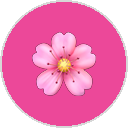
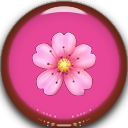
fix: surrendered spelare kan inte längre vinna + persistens vid surrender
- calculateWinner() exkluderar nu alltid spelare med surrendered=true
- surrender-handlern anropar handleGameEnd() vid game over så att
  ELO, achievements och spelhistorik sparas korrekt
- Uppdaterade AGENTS.md och avatarer

diff --git a/server/sockets/handlers.js b/server/sockets/handlers.js
@@ -475,24 +475,7 @@ function createSocketHandlers(io, roomManager, Game, User, db, escapeHtml, handl
                 });
 
                 if (result.gameOver) {
-                    room.game.players.forEach(player => {
-                        io.to(player.socketId).emit('game_over', {
-                            gameState: room.game.getPublicState(player.socketId),
-                            winner: room.game.winner,
-                            standings: room.game.finalStandings,
-                            duration: room.game.duration,
-                            totalTurns: room.game.totalTurns
-                        });
-                    });
-                    room.game.spectators.forEach(spectatorId => {
-                        io.to(spectatorId).emit('game_over', {
-                            gameState: room.game.getSpectatorState(),
-                            winner: room.game.winner,
-                            standings: room.game.finalStandings,
-                            duration: room.game.duration,
-                            totalTurns: room.game.totalTurns
-                        });
-                    });
+                    handleGameEnd(room.game, room);
                 } else {
                     room.game.players.forEach(player => {
                         io.to(player.socketId).emit('game_state_update', room.game.getPublicState(player.socketId));

diff --git a/server/game/utils.js b/server/game/utils.js
@@ -78,7 +78,7 @@ function getPlayerAvatar(name, currentAvatar = null) {
     // Simple hash of the name
     let hash = 0;
     for (let i = 0; i < name.length; i++) {
-        hash = ((hash << 5) - hash) + name.charCodeAt(i);
+        hash = (hash << 5) - hash + name.charCodeAt(i);
         hash |= 0; // Convert to 32-bit int
     }
     const index = Math.abs(hash) % AVATARS.length;

diff --git a/server/game/GameEngine.js b/server/game/GameEngine.js
@@ -1232,7 +1232,7 @@ class GameEngine {
 
     calculateWinner() {
         const activePlayers = this.players
-            .filter(p => p.connected || p.pairs.length > 0)
+            .filter(p => !p.surrendered && (p.connected || p.pairs.length > 0))
             .sort((a, b) => b.pairs.length - a.pairs.length);
 
         // Assign ranks with tie handling (same pairs = same rank)

diff --git a/AGENTS.md b/AGENTS.md
@@ -56,7 +56,7 @@ finns-i-sjon-pro/
 │   │   ├── users.js           # GET /leaderboard, /online, /search, /:id/profile
 │   │   ├── games.js           # GET /history, /:id
 │   │   ├── rooms.js           # GET /, /:id (kräver RoomManager-instans)
-│   │   └── stats.js           # Statistikendpoints
+│   │   └── stats.js           # GET /total-games
 │   ├── game/
 │   │   ├── GameEngine.js      # Spelregler, turhantering, par, AI-anslutning
 │   │   ├── RoomManager.js     # Rums-CRUD, join/leave/kick, reconnection
@@ -164,8 +164,10 @@ npm run format:check  # Prettier --check (används i CI)
 ### ESLint-regler (se `eslint.config.js`)
 - `no-unused-vars`: warn (args som börjar med `_` ignoreras)
 - `no-console`: off (tillåtet i detta projekt)
+- `no-debugger`: warn
 - `eqeqeq`: error (alltid `===` / `!==`)
 - `curly`: error (alltid måsvingar, även för enraders block)
+- `no-throw-literal`: error
 - `prefer-const`: warn
 
 ### Namngivning och språk
@@ -210,8 +212,8 @@ npm run format:check  # Prettier --check (används i CI)
 
 ### Rate limiting
 - `/api/auth/*`: 10 förfrågningar / 15 minuter
-- Läs-endpoints (rooms, online, leaderboard): 120 / minut
-- Övriga API: 100 / 15 minuter
+- Läs-endpoints (`/api/rooms`, `/api/users/online`, `/api/stats/total-games`, `/api/users/leaderboard`): 120 / minut
+- Övriga API: 600 / 15 minuter
 - **Obs:** Socket.IO-events har **inte** rate limiting för närvarande.
 
 ---
@@ -224,9 +226,24 @@ Databaslagret (`server/config/database.js`) har en **fallback-kedja**:
 2. **MariaDB/MySQL** — om `DB_HOST` etc. är satt
 3. **SQLite3** — fallback för utveckling (`DB_PATH=./database/game.db`)
 
-Tabeller: `users`, `games`, `game_participants`, `game_events`, `friendships`, `achievements`, `game_snapshots`.
+Sätt `DB_FALLBACK=false` för att inaktivera SQLite-fallback och tvinga fram MariaDB.
 
-Se `PROJEKTPLAN.md` för fullständigt schema.
+### Tabeller
+- `users` — användarkonton, ELO, statistik
+- `games` — spelmetadata (vinnare, duration, antal turer)
+- `game_participants` — deltagare per spel med slutlig rank och ELO-förändring
+- `game_events` — händelselogg (frågor, fiskningar, par)
+- `friendships` — vänförfrågningar (status: pending/accepted)
+- `achievements` — upplåsta achievements per användare
+- `game_snapshots` — JSON-snapshots av spelstatus för crash-recovery
+
+### Index
+- `idx_users_elo` (users.elo_rating DESC)
+- `idx_users_online` (users.is_online)
+- `idx_achievements_user` (achievements.user_id)
+- `idx_games_created` (games.created_at DESC)
+- `idx_game_participants_user` (game_participants.user_id)
+- `idx_game_events_game` (game_events.game_id)
 
 ---
 
@@ -235,19 +252,63 @@ Se `PROJEKTPLAN.md` för fullständigt schema.
 - **Namespace:** Default `/`
 - **Auth-middleware:** `Auth.socketAuth` körs före `connection`-event
 - **Huvudmodul:** `server/sockets/index.js` sätter ihop `handlers.js` och `game-end.js`
-- **Viktiga events:**
-  - `create_room`, `join_room`, `start_game`
-  - `ask_cards` + `respond_to_ask` (mänskliga spelare)
-  - `chat_message`
-  - `reconnect_attempt` (stöd för sidomladdning/ny flik)
 
-Spelet använder **två ask-flöden**:
-- Direkt `askForCards()` för AI-motståndare (svarar synkront)
-- `requestAsk()` + `respond_to_ask()` för mänskliga spelare (asynkront pending-ask-mönster)
+### Klient → Server (utöver grundläggande rumshantering)
+| Event | Beskrivning |
+|-------|-------------|
+| `create_room` | Skapa nytt rum |
+| `join_room` | Gå med i rum (stöd för lösenord och spectator) |
+| `reconnect_attempt` | Återanslut efter disconnect med `oldSocketId` + `reconnectToken` |
+| `start_game` | Värd startar spelet (stödjer omstart om state är FINISHED) |
+| `toggle_ready` | Växla ready-status i vänteläge |
+| `ask_cards` | Fråga motståndare om kort (AI = synkront, människa = pending-ask) |
+| `respond_to_ask` | Svara på pågående förfrågan (hasCard, rank) |
+| `chat_message` | Skicka chattmeddelande (saneras, achievements möjliga) |
+| `add_ai` | Lägg till AI-spelare |
+| `remove_ai` | Ta bort AI-spelare |
+| `kick_player` | Kicka spelare (värden) |
+| `surrender` | Ge upp — avslutar spelarens deltagande |
+| `update_settings` | Uppdatera rum (allowAI, turnTimer, spectatorMode, maxPlayers, deckTheme) |
+| `leave_room` | Lämna rum |
+| `dev_ai_vs_ai` | Dev-only: starta AI vs AI med åskådare |
+
+### Server → Klient (viktiga events)
+| Event | Beskrivning |
+|-------|-------------|
+| `room_created` / `room_joined` / `spectator_joined` | Bekräftelser |
+| `game_started` | Spelet har börjat |
+| `game_state_update` | Allmän state-uppdatering |
+| `turn_result` | Resultat av ett drag (innehåller `gameState`, `aiReasoning` för AI-drag) |
+| `ask_pending` | Väntar på svar från motståndare |
+| `card_request` | Någon frågar dig om kort |
+| `game_over` | Spelet slut (innehåller `winner`, `standings`, `eloChange`) |
+| `chat_message` | Nytt chattmeddelande |
+| `player_joined` / `player_left` / `player_reconnected` / `player_kicked` / `player_surrendered` | Spelarhändelser |
+| `ai_added` / `ai_removed` | AI-händelser |
+| `settings_updated` / `ready_status_update` | Rumstillstånd |
+| `achievement_unlocked` | Achievement upplåst |
+| `error` | Felmeddelande |
+
+### Två ask-flöden
+- **Direkt `askForCards()`** för AI-motståndare (svarar synkront)
+- **`requestAsk()` + `respond_to_ask()`** för mänskliga spelare (asynkront pending-ask-mönster)
 
 ---
 
-## 10. Driftsättning
+## 10. WebRTC-signaleringsarkitektur
+
+Fil: `server/webrtc/signaling.js`
+
+Klassen `WebRTCSignaling` hanterar P2P-röstchatt via Socket.IO:
+- `voice_join` / `voice_leave` — anslut/lämna röstchatt i ett rum
+- `webrtc_offer` / `webrtc_answer` / `webrtc_ice_candidate` — standard WebRTC-signaleringsflöde
+- `voice_peer_joined` / `voice_peer_left` / `voice_peers_list` — peer-hantering
+
+ICE-servrar: Google STUN + Open Relay TURN (fallback). Anpassad TURN kan sättas via miljövariabler (`TURN_URL`, `TURN_USERNAME`, `TURN_CREDENTIAL`).
+
+---
+
+## 11. Driftsättning
 
 ### Railway (primär metod)
 1. Repo på GitHub, kopplat till Railway
@@ -271,7 +332,7 @@ npm run dev
 
 ---
 
-## 11. Utvecklingskonventioner
+## 12. Utvecklingskonventioner
 
 ### Innan du commitar
 1. Kör `npm run lint` — fixa fel
@@ -282,7 +343,7 @@ npm run dev
 ### Att lägga till en ny API-endpoint
 1. Skapa route-fil under `server/routes/` (eller utöka befintlig)
 2. Registrera i `server/server.js` med `app.use('/api/xxx', ...)`
-3. Använd `Auth.middleware()` för autentisering om det behövs (körs redan globalt, sätt `req.user` till `null` för öppna endpoints)
+3. Auth-middleware körs globalt och sätter `req.user` till `null` för gäster
 
 ### Att lägga till ett Socket.IO-event
 1. Lägg till handler i `server/sockets/handlers.js`
@@ -291,16 +352,15 @@ npm run dev
 
 ---
 
-## 12. Kända begränsningar (från PROJEKTPLAN.md)
+## 13. Kända begränsningar
 
-- `makeAIMMove` är felstavat i `GameEngine.js` (ska vara `makeAIMove`)
-- `handleGameEnd` skickar inte `eloChange` per spelare i `standings`-arrayen
 - `friendships`-tabellen finns men används inte i frontend
 - WebRTC-video fungerar inte på Safari `localhost` — använd `127.0.0.1`
+- `handleGameEnd` skickar inte `eloChange` per spelare i `standings`-arrayen (skickas separat som `eloChange` per spelare i `game_over`)
 
 ---
 
-## 13. Snabbreferens: Viktiga filer att läsa
+## 14. Snabbreferens: Viktiga filer att läsa
 
 | Om du ska... | Läs dessa filer |
 |--------------|-----------------|
